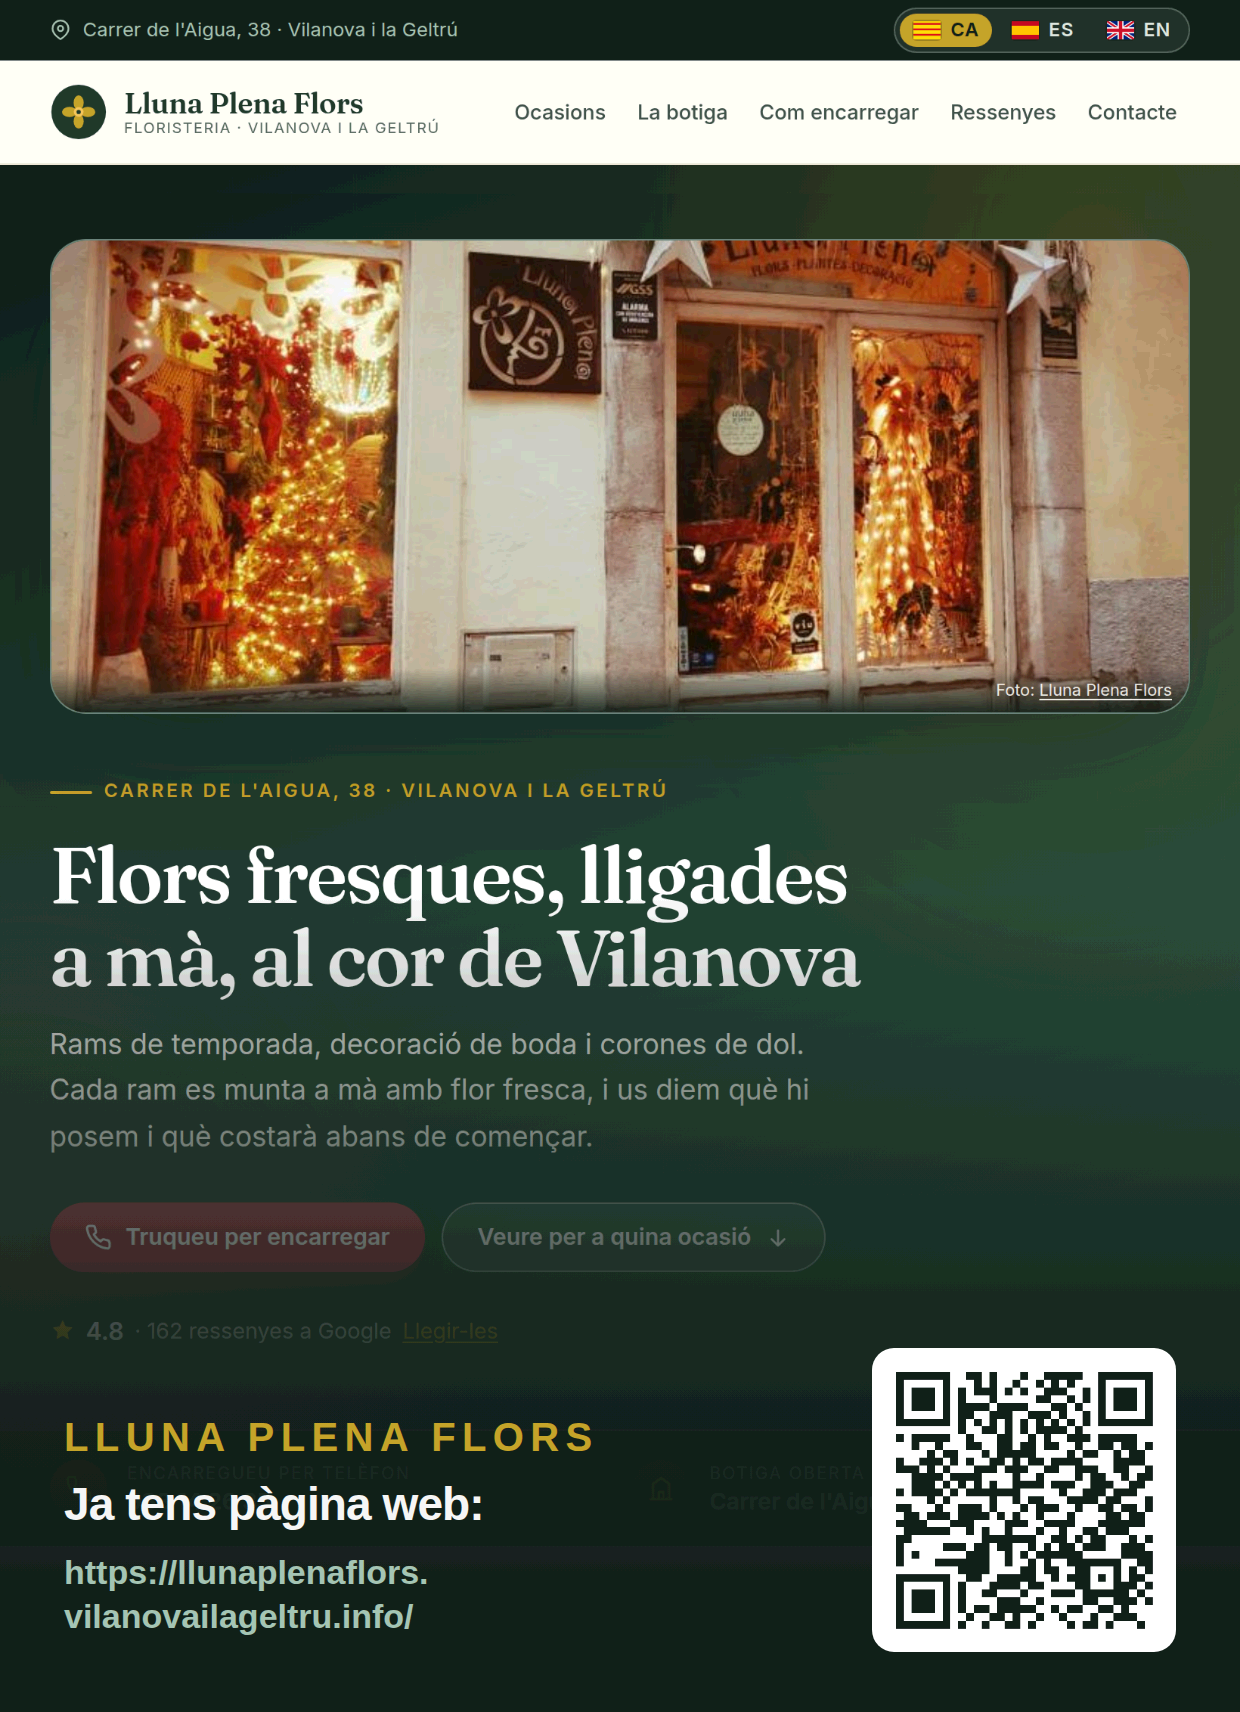
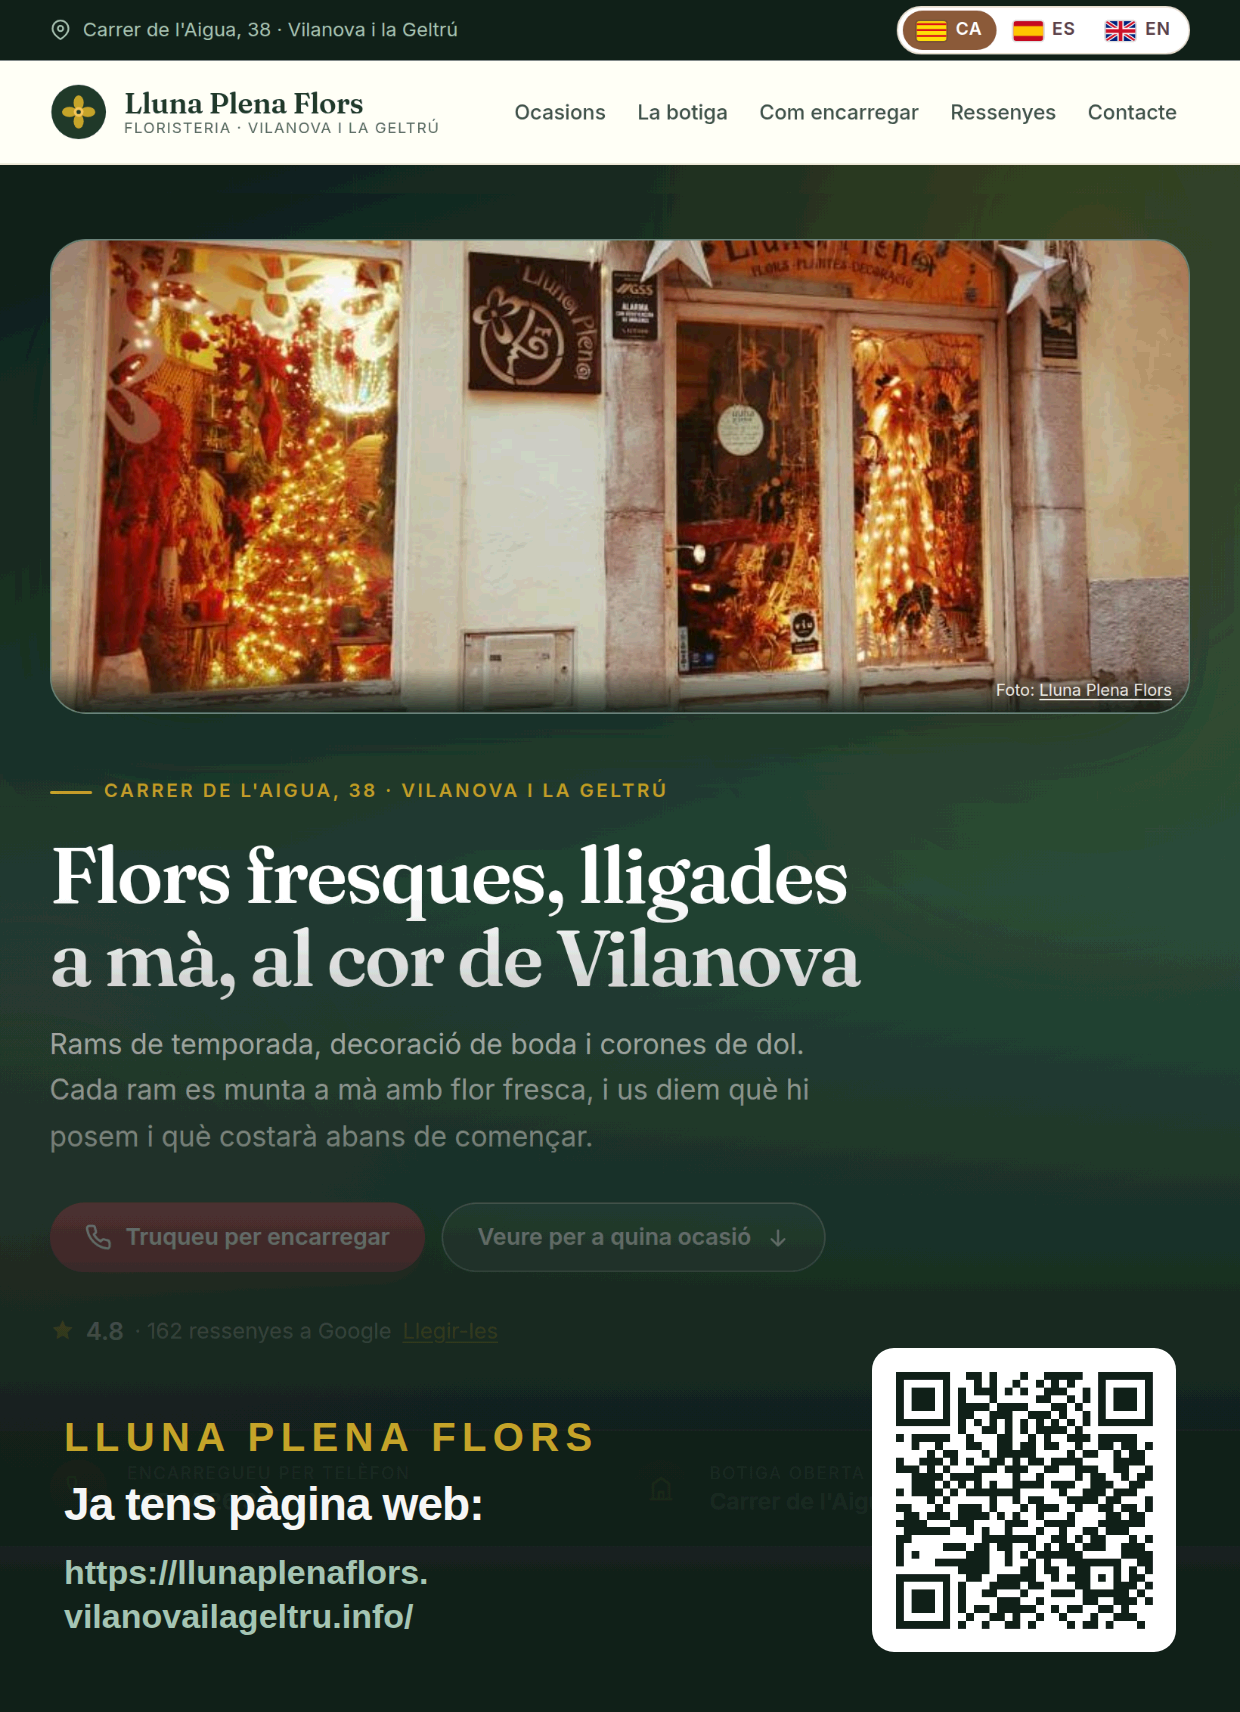
One canonical language toolbar and README across the fleet

Changed region(s): [[0.7048, 0.0, 0.9806, 0.031]]

diff --git a/assets/css/styles.css b/assets/css/styles.css
@@ -315,41 +315,6 @@ ul { margin: 0; padding: 0; list-style: none; }
 .nav-toggle:hover { background: var(--ivory-200); }
 
 /* ---------- language switch ---------- */
-.langs {
-  display: flex;
-  align-items: center;
-  gap: .25rem;
-  padding: .2rem;
-  border: 1px solid rgba(168, 195, 178, .35);
-  border-radius: 999px;
-  background: rgba(255, 255, 255, .08);
-}
-.langs__link {
-  display: inline-flex;
-  align-items: center;
-  gap: .4rem;
-  padding: .3rem .55rem;
-  border-radius: 999px;
-  text-decoration: none;
-  font-size: .78rem;
-  font-weight: 600;
-  color: var(--forest-100);
-  line-height: 1;
-}
-.langs__link:hover { background: rgba(255, 255, 255, .16); color: #fff; }
-.langs__link[aria-current="true"] {
-  background: var(--gold-500);
-  color: var(--forest-950);
-}
-.langs__flag {
-  width: 18px;
-  height: 12px;
-  border-radius: 2px;
-  flex: none;
-  box-shadow: 0 0 0 1px rgba(0, 0, 0, .2);
-  display: block;
-}
-.langs__code { text-transform: uppercase; letter-spacing: .04em; }
 
 /* ---------- buttons ---------- */
 .btn {
@@ -1246,4 +1211,90 @@ a.orderstrip__value:hover { color: var(--gold-500); }
   .reviews__all, .footer__legal { display: none !important; }
   .hero, .section--forest, .footer { background: #fff !important; color: #000 !important; }
   .reveal { opacity: 1 !important; transform: none !important; }
+}
+
+/* ==========================================================================
+   Language switch — the one canonical toolbar used by every site.
+   Change only the four custom properties at the top; never re-implement it.
+
+   Why it is written this way:
+   - a fixed 20x13 box with overflow:hidden, so a flag can never bleed out of
+     its pill (the inner SVG has no width/height of its own);
+   - the code label is always present, which keeps every pill the same width and
+     stops the narrow flags-only variant from looking misaligned;
+   - the active pill uses its own background, never a border, so no 1px seam
+     appears between adjacent pills;
+   - height is fixed, so the toolbar aligns with the phone button beside it.
+   ========================================================================== */
+
+.langs {
+  --langs-bg: #ffffff;
+  --langs-border: #e4dbcd;
+  --langs-ink: #5a4048;
+  --langs-active-bg: #8a5a3c;
+  --langs-active-ink: #ffffff;
+
+  display: inline-flex;
+  align-items: center;
+  gap: 2px;
+  height: 32px;
+  padding: 0 3px;
+  border: 1px solid var(--langs-border);
+  border-radius: 999px;
+  background: var(--langs-bg);
+  box-sizing: border-box;
+}
+
+.langs__link {
+  display: inline-flex;
+  align-items: center;
+  justify-content: center;
+  gap: 6px;
+  height: 26px;
+  padding: 0 9px;
+  border-radius: 999px;
+  text-decoration: none;
+  line-height: 1;
+  color: var(--langs-ink);
+  /* A hairline of the same colour as the background prevents the sub-pixel
+     seam some browsers draw between adjacent rounded pills. */
+  transition: background-color .15s ease, color .15s ease;
+}
+.langs__link:hover { background: rgba(0, 0, 0, .06); }
+.langs__link[aria-current="true"] {
+  background: var(--langs-active-bg);
+  color: var(--langs-active-ink);
+}
+.langs__link[aria-current="true"]:hover { background: var(--langs-active-bg); }
+
+/* The flag box is a hard size with clipping: an SVG with only a viewBox renders
+   at its intrinsic size and would otherwise overflow the pill. */
+.langs__flag {
+  display: block;
+  flex: none;
+  width: 20px;
+  height: 13px;
+  border-radius: 2px;
+  overflow: hidden;
+  box-shadow: 0 0 0 1px rgba(0, 0, 0, .12);
+}
+.langs__flag svg {
+  display: block;
+  width: 20px;
+  height: 13px;
+}
+
+.langs__code {
+  font-size: .72rem;
+  font-weight: 600;
+  letter-spacing: .05em;
+  text-transform: uppercase;
+}
+
+/* On narrow screens the code alone is not enough to identify a language for a
+   screen reader, but the visible pill can drop to flag + code compactly. */
+@media (max-width: 420px) {
+  .langs { height: 30px; }
+  .langs__link { height: 24px; padding: 0 7px; gap: 5px; }
+  .langs__code { font-size: .68rem; }
 }

diff --git a/README.md b/README.md
@@ -1,67 +1,84 @@
 # Lluna Plena Flors — website
 
-Static, server-rendered site for the florist Lluna Plena Flors, Carrer de l'Aigua, 38,
-08800 Vilanova i la Geltrú. Three locales: Catalan (default, at the root), Spanish at
-`/es/`, English at `/en/`.
+Static site for **Lluna Plena Flors**, a florist at Carrer de l'Aigua, 38, Vilanova i la Geltrú.
 
-Served at <https://llunaplenaflors.vilanovailageltru.info/>.
+Three languages, server-rendered HTML per locale, plain CSS and one small
+progressive-enhancement script. No framework, no runtime dependencies.
 
-## Build
+## Live site
 
-```bash
-ln -sfn /home/davidoc/.openclaw/workspace/node_modules node_modules
-node scripts/build.mjs     # emits index.html, es/index.html, en/index.html, sitemap, robots
-node scripts/verify.mjs    # headless checks over a throwaway local server
-node scripts/assets.mjs    # og-image.jpg, icon PNGs from the default dictionary
-node scripts/brand.mjs     # favicon.svg + icon PNGs in the shop's own mark (run after assets.mjs)
-node scripts/card.mjs      # assets/photos/handover.png, 10.5 x 14.5 cm at 300 dpi with the QR
-```
-
-`build.mjs` fails on an unresolved `{{hole}}`, an empty `href`/`src`, or a JSON-LD block
-that does not parse. `verify.mjs` starts its own static server on a random port and checks
-per locale in a fresh browser context.
-
-## Structure
-
-```
-src/data.json             business facts (address, coordinates, phone, rating, reviews)
-src/locales.json          locale list: code, name, dir, default, hreflang
-src/i18n/<code>.json      copy per locale
-src/template.html         the page, one template for all three locales
-assets/css/styles.css     styles; palette and typography tokens live in :root
-assets/js/main.js         progressive enhancement only (nav, reveal, consent, map)
-assets/fonts/             self-hosted Fraunces + Inter (woff2, latin and latin-ext)
-assets/img/               hero photo, OG image, icons
-assets/photos/            handover card and the source photo
-scripts/                  build, verify, asset and card generators
-```
-
-Every asset path is relative so the site also works from an S3 prefix.
+- **Catalan (default):** <https://llunaplenaflors.vilanovailageltru.info/>
+- **Spanish:** <https://llunaplenaflors.vilanovailageltru.info/es/>
+- **English:** <https://llunaplenaflors.vilanovailageltru.info/en/>
 
 ## Page structure
 
-1. Top bar (address, language switch) and sticky header with a call button.
-2. Hero: headline, phone-first call to action, rating proof, the shop photo, and an
-   order strip (phone, address, delivery area).
-3. Occasions — weddings, funerals, birthdays, season, events and businesses, care advice.
-4. The shop — who makes the flowers, what leaves the counter each week, key figures.
-5. How to order — three steps plus delivery area and same-day cut-off.
-6. Reviews, drawn from the Google listing.
-7. Contact — a large call card, address, listing link, and a map that waits for consent.
+Top bar with the address and language switch, sticky header with the shop mark and a
+permanent call button. A product-led hero with the phone as the primary action, then an order
+strip (phone, address, delivery area), the occasions the shop covers, the shop itself with what
+leaves the counter each week, how to order in three steps with the delivery area and same-day
+cut-off, reviews, and a large tap-to-call contact block with the consent-gated map.
 
-## Notes
+## Repo layout
 
-- Canonical, `og:url`, hreflang, `sitemap.xml`, the OG image URL and the handover QR are all
-  derived from `slug` + `siteDomain` in `src/data.json`. Nothing hardcodes a host.
-- The phone number is a landline, so the site uses `tel:` links only and shows no WhatsApp
-  action.
-- Opening hours and price-per-person are deliberately not published.
-- The review count is shown because it is above 50; the rating badge appears because it is
-  above 4.
-- The map loads only after cookie consent. Analytics uses the same decision: nothing is
-  requested from Google before acceptance, and `window.__analyticsConsent(ok)` is the single
-  switch.
-- The hero photo is the shop's own Google listing photo, credited in the caption.
-- `verify.mjs` is the gate: it asserts the layout tokens resolve (a `0px` `.wrap` padding
-  means `:root` was overwritten wholesale), no horizontal overflow at 360/768/1920, the
-  drawer opens and closes on Escape, and the map appears only after consent.
+```
+index.html                 Catalan (default locale)
+es/index.html              Spanish
+en/index.html              English
+ca/index.html              redirect to / (the default locale used to live here)
+src/template.html          the single template the build renders
+src/data.json              business data (address, phone, coordinates, rating)
+src/locales.json           locale list, which one is default, hreflang codes
+src/i18n/{ca,es,en}.json   all copy, per locale
+scripts/build.mjs          renders the locale pages + sitemap, robots, manifest
+scripts/assets.mjs         app icons and the Open Graph image
+scripts/card.mjs           handover card, 10.5 x 14.5 cm @ 300 dpi
+scripts/verify.mjs         headless checks against the built output
+assets/css/styles.css      all styles, responsive from 320 px up
+assets/js/main.js          navigation, reveal, cookie consent, lazy map
+assets/fonts/              self-hosted Fraunces and Inter (woff2 subsets)
+assets/img/                mark, icons, hero photo, OG image
+assets/photos/handover.png handover card with a QR to the live site
+.github/workflows/         deploy to S3 on push to main
+```
+
+## Build
+
+Requires Node 20+ and `puppeteer` for the asset scripts.
+
+```bash
+node scripts/build.mjs     # render the locale pages
+node scripts/assets.mjs    # regenerate icons and og-image.jpg
+node scripts/card.mjs      # regenerate the handover card
+node scripts/verify.mjs    # headless verification of the built output
+```
+
+`build.mjs` fails on an unresolved template placeholder, an empty `href`/`src`, invalid
+JSON-LD, or a feature icon that has no entry in `scripts/icons.json`.
+
+## Editing content
+
+Text lives in `src/i18n/*.json`; shared business facts live in `src/data.json`. Change those,
+run `node scripts/build.mjs`, commit the regenerated HTML. Do not hand-edit the generated
+`index.html` files — they are overwritten.
+
+## Deploy
+
+Pushing to `main` runs `.github/workflows/deploy-aws.yml`: it builds the site, authenticates
+to AWS with OIDC (no stored keys) and uploads to
+`s3://dr-static-websites/vilanovailageltru.info/llunaplenaflors/`. The subdomain is served from the bucket's CDN, so a
+deploy is live within a few minutes.
+
+## Technical notes
+
+- **SEO** — per-locale `<title>`, description, canonical, reciprocal `hreflang` including
+  `x-default`, Open Graph and Twitter cards, `sitemap.xml` with alternates, `robots.txt`, and
+  `Florist` structured data. Every absolute URL derives from the site's own domain.
+- **Accessibility** — one `h1` per page, skip link, landmark elements, visible focus rings,
+  body text at or above 4.5:1 contrast, `aria-expanded` on the navigation toggle, Escape
+  closes the drawer, and content stays readable with JavaScript disabled.
+- **Performance** — self-hosted woff2 subsets preloaded, one CSS file, one deferred JS file,
+  no third-party requests until the visitor opts in.
+- **Privacy** — the cookie notice offers accept and reject. Nothing is fetched from Google —
+  analytics script or map iframe — until the visitor accepts; rejecting loads neither and is
+  remembered.
